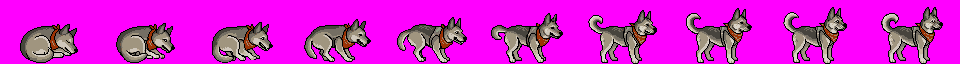
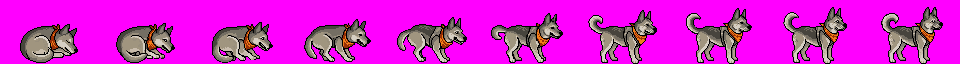
Tarou con arte de beat 'em up: guardia, golpes 1-3, recibir y KO
- 6 animaciones nuevas generadas con el MCP de Pixellab (skeleton-v3 de
  cuadrúpedo, solo el este) sobre su pose de combate con la katana en la
  boca: guardia en bucle, embestida con corte, tajo de cabeza, salto y
  mordisco (derriba), recibir y KO. El combo sigue siendo de 3 golpes.
- Solo en .p16 (TAROU_BU_ANIMS), tiras 14-19 de tarou_p16_bancos
  (TAROU_TIRA_*); juego/personaje.c las usa en la fase y el selector.
  Camina, salta y cae con las tiras del plataformas.
- Las tiras de Tarou se regeneran con la paleta común nueva.

Claude-Session: https://claude.ai/code/session_017EnG7dwTveDLR11rU2k6Mu

diff --git a/scripts/pruebas/prueba_preparar_personaje.py b/scripts/pruebas/prueba_preparar_personaje.py
@@ -115,10 +115,11 @@ class PruebasPrepararPersonaje(unittest.TestCase):
         self.tmp.cleanup()
 
     def test_marcador_cuando_falta_animacion(self):
-        """Sin entrada, salen 14 marcadores con los cuadros por defecto."""
+        """Sin entrada, salen 20 marcadores con los cuadros por defecto (14 del plataformas y
+        6 del beat 'em up)."""
         resultado = pp.preparar("tarou", self.entrada, self.salida)
         pngs = sorted(self.salida.glob("tarou_*.png"))
-        self.assertEqual(len(pngs), 15)          # 14 animaciones + tarou_reposo_estatico.png
+        self.assertEqual(len(pngs), 21)          # 20 animaciones + tarou_reposo_estatico.png
         for png in pngs:
             with Image.open(png) as im:
                 self.assertEqual(im.height, ALTO, png.name)
@@ -130,7 +131,7 @@ class PruebasPrepararPersonaje(unittest.TestCase):
         self.assertEqual(cuadros_del_header(header, "atacar"), 5)
         self.assertEqual(cuadros_del_header(header, "guardia"), 1)     # pose fija: 1 cuadro
         self.assertEqual(resultado["reposo"], 4)
-        self.assertIn("#define TAROU_ANIMACIONES 14", header.read_text(encoding="utf-8"))
+        self.assertIn("#define TAROU_ANIMACIONES 20", header.read_text(encoding="utf-8"))
 
     def test_reposo_estatico_siempre_dos_cuadros(self):
         """La tira estática de reposo (intro y título, personajes.c) tiene SIEMPRE
@@ -163,7 +164,7 @@ class PruebasPrepararPersonaje(unittest.TestCase):
         self.assertEqual(cuadros_de(self.salida / "tarou_reposo_estatico.png"), [0, 3])
         # El reposo del nivel sigue entero (6 cuadros) y el header no cuenta la estática.
         self.assertEqual(cuadros_del_header(self.salida / "tarou_anim.h", "reposo"), 6)
-        self.assertIn("#define TAROU_ANIMACIONES 14", (self.salida / "tarou_anim.h").read_text(encoding="utf-8"))
+        self.assertIn("#define TAROU_ANIMACIONES 20", (self.salida / "tarou_anim.h").read_text(encoding="utf-8"))
 
         reposo_de(2).save(self.entrada / "reposo.png")
         pp.preparar("tarou", self.entrada, self.salida)
@@ -255,7 +256,9 @@ class PruebasPixellabNativo(unittest.TestCase):
         """Cada animación del juego sale del estado de Pixellab que dice el mapeo."""
         esperado = {"reposo": 9, "caminar": 8, "correr": 8, "saltar": 3, "caer": 3, "agachado": 1,
                     "agachado_caminar": 8, "desenvainar": 9, "envainar": 9, "atacar": 1,
-                    "echarse": 6, "dormido": 9, "despertar": 10, "guardia": 1}
+                    "echarse": 6, "dormido": 9, "despertar": 10, "guardia": 1,
+                    # Las del beat 'em up no están en esta exportación falsa: marcadores.
+                    "guardia_bu": 8, "golpe_1": 5, "golpe_2": 5, "golpe_3": 7, "recibir": 5, "ko": 6}
         self.assertEqual(self.resultado, esperado)
         for animacion, n in esperado.items():
             self.assertEqual(cuadros_del_header(self.salida / "tarou_anim.h", animacion), n, animacion)

diff --git a/src/juego/personaje.c b/src/juego/personaje.c
@@ -3,9 +3,9 @@
     (ver personaje.h).
 
     PROPÓSITO
-      Tarou no tiene arte de beat 'em up: usa las tiras del plataformas (reposo para
-      la guardia y al recibir, un dibujo fijo para los tres golpes, caer para el KO),
-      con los mismos ritmos que animaciones.c. Bárbara sí: una tira por animación.
+      Tarou tiene arte de beat 'em up para la guardia, los tres golpes, recibir y el KO
+      (2026-11-04); camina, salta y cae con las tiras del plataformas. Bárbara: una tira
+      por animación.
       Sus golpes reparten los dibujos en la duración del golpe (GOLPE_FRAMES = 14,
       GOLPE_ULTIMO_FRAMES = 20, mundo.h) a 3 frames por dibujo, así el combate no
       cambia de números (decisión del 2026-11-04).
@@ -30,17 +30,19 @@
 
 u8 personaje_elegido;
 
-/* Tarou: las tiras del plataformas (ritmos de animaciones.c). */
+/* Tarou: su arte de beat 'em up (2026-11-04) para la guardia, los golpes, recibir y el KO;
+   caminar, saltar y caer siguen siendo las tiras del plataformas (ritmos de animaciones.c).
+   Los golpes reparten sus dibujos a 3 frames, como los de Bárbara. */
 static const AnimProta ANIMS_TAROU[ANIM_PROTA_CANTIDAD] = {
-    {ESTADO_PARADO, TAROU_REPOSO_CUADROS, 12, 1},     /* ANIM_GUARDIA: el reposo.          */
-    {ESTADO_CAMINANDO, TAROU_CAMINAR_CUADROS, 6, 1},  /* ANIM_CAMINAR                      */
-    {ESTADO_SALTANDO, TAROU_SALTAR_CUADROS, 6, 0},    /* ANIM_SALTAR                       */
-    {ESTADO_CAYENDO, TAROU_CAER_CUADROS, 6, 0},       /* ANIM_CAER                         */
-    {ESTADO_ATACANDO, TAROU_ATACAR_CUADROS, 20, 0},   /* ANIM_GOLPE_1: un dibujo fijo.     */
-    {ESTADO_ATACANDO, TAROU_ATACAR_CUADROS, 20, 0},   /* ANIM_GOLPE_2                      */
-    {ESTADO_ATACANDO, TAROU_ATACAR_CUADROS, 20, 0},   /* ANIM_GOLPE_3                      */
-    {ESTADO_PARADO, TAROU_REPOSO_CUADROS, 12, 1},     /* ANIM_RECIBIR: reposo (parpadea).  */
-    {ESTADO_CAYENDO, TAROU_CAER_CUADROS, 6, 0},       /* ANIM_KO: el dibujo de caer.       */
+    {TAROU_TIRA_GUARDIA_BU, TAROU_GUARDIA_BU_CUADROS, 8, 1},   /* ANIM_GUARDIA              */
+    {ESTADO_CAMINANDO, TAROU_CAMINAR_CUADROS, 6, 1},          /* ANIM_CAMINAR              */
+    {ESTADO_SALTANDO, TAROU_SALTAR_CUADROS, 6, 0},            /* ANIM_SALTAR               */
+    {ESTADO_CAYENDO, TAROU_CAER_CUADROS, 6, 0},               /* ANIM_CAER                 */
+    {TAROU_TIRA_GOLPE_1, TAROU_GOLPE_1_CUADROS, 3, 0},        /* 5 dibujos en 14 frames.   */
+    {TAROU_TIRA_GOLPE_2, TAROU_GOLPE_2_CUADROS, 3, 0},        /* 5 dibujos en 14 frames.   */
+    {TAROU_TIRA_GOLPE_3, TAROU_GOLPE_3_CUADROS, 3, 0},        /* 7 en 20: salto y mordisco. */
+    {TAROU_TIRA_RECIBIR, TAROU_RECIBIR_CUADROS, 3, 0},        /* 5 dibujos en 16 frames.   */
+    {TAROU_TIRA_KO, TAROU_KO_CUADROS, 6, 0},                  /* Cae y se queda tumbado.   */
 };
 
 /* Bárbara: su arte de beat 'em up. */

diff --git a/scripts/preparar_personaje.py b/scripts/preparar_personaje.py
@@ -86,6 +86,8 @@ ANIMACIONES = [
     ("agachado", 2), ("agachado_caminar", 6), ("desenvainar", 4), ("envainar", 4),
     ("atacar", 5), ("echarse", 4), ("dormido", 4), ("despertar", 4),
     ("guardia", 1),     # Tarou quieto con la espada fuera (un dibujo, no un estado)
+    # Beat 'em up (2026-11-04): generadas con el MCP sobre su pose de combate (Fight_Pose).
+    ("guardia_bu", 8), ("golpe_1", 5), ("golpe_2", 5), ("golpe_3", 7), ("recibir", 5), ("ko", 6),
 ]
 
 # De qué parte de la exportación NATIVA de Pixellab sale cada animación del juego
@@ -112,6 +114,14 @@ MAPEOS_PIXELLAB = {
         "dormido": ("Sleep", "south", 0, None, False),
         "despertar": ("Stand_up", "east", 0, 10, False),   # 11 cuadros no caben: 10
         "guardia": ("Fight_Pose", "east", None, None, False),  # pose fija: espada en la boca
+        # Beat 'em up (2026-11-04, skeleton-v3 de cuadrúpedo, solo el este): guardia en
+        # bucle, corte con embestida, tajo de cabeza, salto y mordisco (derriba), recibir y KO.
+        "guardia_bu": ("Fight_Pose/guardia_bu", "east", 0, None, False),
+        "golpe_1": ("Fight_Pose/golpe_1", "east", 0, None, False),
+        "golpe_2": ("Fight_Pose/golpe_2", "east", 0, None, False),
+        "golpe_3": ("Fight_Pose/golpe_3", "east", 0, None, False),
+        "recibir": ("Fight_Pose/recibir", "east", 0, None, False),
+        "ko": ("Fight_Pose/ko", "east", 0, None, False),
     },
     # PROVISIONAL (2026-11-04): solo lo que ya trae la primera exportación; el
     # resto sale como marcador. Los tramos se ajustarán al revisar el arte.

diff --git a/src/juego/protagonista_sprite.c b/src/juego/protagonista_sprite.c
@@ -33,6 +33,8 @@
 #include "juego/dma_lista.h"
 
 extern char tarou_reposo_p16, tarou_caminar_p16, tarou_saltar_p16, tarou_caer_p16, tarou_atacar_p16;
+extern char tarou_guardia_bu_p16, tarou_golpe_1_p16, tarou_golpe_2_p16, tarou_golpe_3_p16;
+extern char tarou_recibir_p16, tarou_ko_p16;
 extern char barbara_guardia_p16, barbara_caminar_p16, barbara_saltar_p16, barbara_caer_p16;
 extern char barbara_golpe_1_p16, barbara_golpe_2_p16, barbara_golpe_3_p16;
 extern char barbara_recibir_p16, barbara_ko_p16;
@@ -65,8 +67,14 @@ static const u8 *tira_de(u8 personaje, u8 tira)
             default:                   return (const u8 *)&barbara_guardia_p16;
         }
     }
-    switch (tira)                                    /* Tarou: su enum Estado.              */
+    switch (tira)                                    /* Tarou: su enum Estado o TAROU_TIRA_*. */
     {
+        case TAROU_TIRA_GUARDIA_BU: return (const u8 *)&tarou_guardia_bu_p16;
+        case TAROU_TIRA_GOLPE_1: return (const u8 *)&tarou_golpe_1_p16;
+        case TAROU_TIRA_GOLPE_2: return (const u8 *)&tarou_golpe_2_p16;
+        case TAROU_TIRA_GOLPE_3: return (const u8 *)&tarou_golpe_3_p16;
+        case TAROU_TIRA_RECIBIR: return (const u8 *)&tarou_recibir_p16;
+        case TAROU_TIRA_KO:      return (const u8 *)&tarou_ko_p16;
         case ESTADO_CAMINANDO: return (const u8 *)&tarou_caminar_p16;
         case ESTADO_SALTANDO:  return (const u8 *)&tarou_saltar_p16;
         case ESTADO_CAYENDO:   return (const u8 *)&tarou_caer_p16;

diff --git a/res/personajes/tarou/tarou_anim.h b/res/personajes/tarou/tarou_anim.h
@@ -14,7 +14,7 @@
 
     VARIABLES (constantes)
       TAROU_<ANIMACION>_CUADROS  1..10  cuadros de 96x64 de esa tira
-      TAROU_ANIMACIONES          14      cuántas animaciones hay
+      TAROU_ANIMACIONES          20      cuántas animaciones hay
 ---------------------------------------------------------------------------------*/
 #ifndef TAROU_ANIM_H
 #define TAROU_ANIM_H
@@ -33,7 +33,13 @@
 #define TAROU_DORMIDO_CUADROS 9
 #define TAROU_DESPERTAR_CUADROS 10
 #define TAROU_GUARDIA_CUADROS 1
+#define TAROU_GUARDIA_BU_CUADROS 8
+#define TAROU_GOLPE_1_CUADROS 5
+#define TAROU_GOLPE_2_CUADROS 5
+#define TAROU_GOLPE_3_CUADROS 7
+#define TAROU_RECIBIR_CUADROS 5
+#define TAROU_KO_CUADROS 6
 
-#define TAROU_ANIMACIONES 14
+#define TAROU_ANIMACIONES 20
 
 #endif /* TAROU_ANIM_H */

diff --git a/src/juego/personaje.h b/src/juego/personaje.h
@@ -68,6 +68,15 @@ typedef enum
     BARBARA_TIRAS
 } BarbaraTira;
 
+/* Las tiras de beat 'em up de Tarou, detrás de las del plataformas (enum Estado, 0..12) y
+   su guardia fija (13) en tarou_p16_bancos (data.asm). */
+#define TAROU_TIRA_GUARDIA_BU 14
+#define TAROU_TIRA_GOLPE_1 15
+#define TAROU_TIRA_GOLPE_2 16
+#define TAROU_TIRA_GOLPE_3 17
+#define TAROU_TIRA_RECIBIR 18
+#define TAROU_TIRA_KO 19
+
 /* Una animación: 4 bytes (potencia de 2: tabla[i] no llama a tcc__mul). */
 typedef struct
 {

diff --git a/tests/tarou_anim.h b/tests/tarou_anim.h
@@ -36,6 +36,13 @@
 #define TAROU_ECHARSE_CUADROS 4
 #define TAROU_DORMIDO_CUADROS 4
 #define TAROU_DESPERTAR_CUADROS 4
+/* Beat 'em up (2026-11-04): los cuadros reales del arte. */
+#define TAROU_GUARDIA_BU_CUADROS 8
+#define TAROU_GOLPE_1_CUADROS 5
+#define TAROU_GOLPE_2_CUADROS 5
+#define TAROU_GOLPE_3_CUADROS 7
+#define TAROU_RECIBIR_CUADROS 5
+#define TAROU_KO_CUADROS 6
 
 #define TAROU_ANIMACIONES 13
 

diff --git a/docs/mapa-de-archivos.md b/docs/mapa-de-archivos.md
@@ -152,7 +152,7 @@ Todas siguen el mismo patrón: `_iniciar()` carga gráficos y hace el fade in;
 | `enemigos/ninja.h` / `ninja.c` | **Lógica pura**: el ninja básico. `Ninja` (16 bytes: x, y de los pies, vivo, mirada, cuadro, reloj, estado, dentro) en 3 ranuras fijas; `ninja_oleada` (nacen zona + 1, alternando izquierda y derecha, fuera de la pantalla, en carriles distintos; por la izquierda nunca por debajo de x = 0), `ninja_actualizar` (mientras viene de fuera anda recto hacia dentro de la pantalla sin pararse, aunque pase sobre el protagonista; ya dentro, mira y camina hacia él a 1 px/frame hasta 40 px; la y, un píxel cada dos frames; anima 8 cuadros), `ninja_limitar_x` (una vez dentro de la pantalla ya no sale), `ninja_vivos`, `ninja_recibir` (vida, aturdido o derribado, empuje, un tajo no pega dos veces), **el ataque** (`ninja_intentar_atacar`: parado cerca del objetivo, descansado y con turno —como mucho 2 a la vez—; el tajo dura 28 cuadros con la caja activa del 12 al 19, cuadros de dibujo 8..14 de la tira de ataque; descansa 50 cuadros después) y `ninja_derrotar_todos`. Los estados ATACANDO, RECIBIR (16 cuadros) y DERRIBADO (36) retroceden al ninja sin IA; sin vida, desaparece al caer. Vida 4 = el combo justo. | `tipos.h`, `mundo.h`, `nivel.h`. Lo usan `ninja_sprite.c`, `pantalla_fase1.c`, `tests/prueba_ninja.c`. | **ninguno** |
 | `enemigos/ninja_sprite.h` / `.c` | Los ninjas en la capa de sprites: un hueco fijo de tiles por ranura (192, 288, 384), paletas 1..3, entidades fijas 2..4 (cuerpo) y 5..7 (sombra). Un ninja por frame, por turnos, sube su cuadro entero en un VBlank (12–15 piezas: ≤ 1,9 KB). Arte de «Ninja 1» (2026-11-04, celda de 96×96): `ninja_dibujo()` da el dibujo y `tira_de` lo traduce a una de las 7 tiras (guardia, caminar, puñetazo, recibir, derribado, levantarse, KO); la misma paleta en 1..3; solo el KO tumbado parpadea (`ninja_parpadea`). | `ninja.h`, `sprites.h`, `subida.h`, `p16.h`, `dma_lista.h`; lee `ninja1_<anim>_p16`, `ninja1_pal`, `ninja1_p16_bancos` y la sombra de la prueba de carga. Lo usa `pantalla_fase1.c`. | OAM, VRAM (por la lista de DMA), CGRAM (paletas 1..3) |
 | `protagonista_sprite.h` / `.c` | Una protagonista en la capa de sprites, como **instancia** `ProtaSprite` (personaje, entidades, búferes de VRAM, paleta, tope de subida): anima con la tabla de su personaje (`personaje.c`), sube el cuadro nuevo al búfer oculto (doble búfer, `subida.c`) y rellena sus dos entidades (cuerpo, dibujado en y − z, y sombra en el suelo, y = 0, media suma de color). `protagonista_escena_cargar` prepara OAM, sombra y matemática de color una vez por pantalla; `sprites_ordenar` lo llama quien dibuja. Celda por personaje (Tarou 96×64, Bárbara 144×112). Sucesor de `tarou_sprite.c`. | `personaje.h`, `mundo.h`, `sprites.h`, `subida.h`, `p16.h`, `dma_lista.h`; lee `tarou_*_p16`, `barbara_*_p16`, sus paletas y la sombra de la prueba de carga. Lo usan `pantalla_fase1.c` y `pantalla_selector.c`. | OAM, VRAM (por la lista de DMA), CGRAM, matemática de color |
-| `personaje.h` / `personaje.c` | **Lógica pura**: quién es la protagonista (`personaje_elegido`, que pone `main.c` al arrancar y cambia el selector) y sus tablas de animación (`AnimProta`, 4 bytes: tira, cuadros, frames, bucle) con las mismas entradas para los dos (guardia, caminar, saltar, caer, golpes 1–3, recibir, KO); `personaje_anim_de(cuerpo)` elige la animación y `personaje_animar` la avanza. Tarou reutiliza las tiras del plataformas; los golpes de Bárbara reparten sus dibujos a 3 frames en la duración del golpe. Celdas y alcance (Tarou 52, Bárbara 72). | `mundo.h`, `animaciones.h`, `tarou_anim.h`, `barbara_anim.h`. Lo usan `protagonista_sprite.c`, `pantalla_selector.c`, `pantalla_fase1.c`, `hud_juego.c`, `tests/prueba_personaje.c`. | **ninguno** |
+| `personaje.h` / `personaje.c` | **Lógica pura**: quién es la protagonista (`personaje_elegido`, que pone `main.c` al arrancar y cambia el selector) y sus tablas de animación (`AnimProta`, 4 bytes: tira, cuadros, frames, bucle) con las mismas entradas para los dos (guardia, caminar, saltar, caer, golpes 1–3, recibir, KO); `personaje_anim_de(cuerpo)` elige la animación y `personaje_animar` la avanza. Tarou usa su arte de beat 'em up para guardia, golpes 1–3, recibir y KO (`TAROU_TIRA_*`, tiras 14–19 de `tarou_p16_bancos`) y las del plataformas para caminar, saltar y caer; los golpes de Bárbara reparten sus dibujos a 3 frames en la duración del golpe. Celdas y alcance (Tarou 52, Bárbara 72). | `mundo.h`, `animaciones.h`, `tarou_anim.h`, `barbara_anim.h`. Lo usan `protagonista_sprite.c`, `pantalla_selector.c`, `pantalla_fase1.c`, `hud_juego.c`, `tests/prueba_personaje.c`. | **ninguno** |
 | `p16.h` / `p16.c` | **Lógica pura**: lee el registro de 8 bytes de un cuadro de una tira `.p16` (desplazamientos de la tabla de piezas, de la espejada y de los tiles; n). | `tipos.h`; lo usan `prueba_carga.c`, `tests/prueba_p16.c`. | ninguno |
 | `dma_copias.asm` | `dma_lista_copias(copias, n, banco)`: pasa n `Copia` de una subida a la lista de DMA en un bucle de ensamblador (sin una llamada desde C por copia). | Declarada en `dma_lista.h`; la usa `prueba_carga.c`. | ninguno (prepara la lista) |
 | `barbara.*`, `cambio_protagonista.*` | **Stubs** (Revisión 2 / Etapa 4): contrato previsto como prototipos comentados y una función `_pendiente()` vacía. | `tipos.h`. | ninguno |

diff --git a/CLAUDE.md b/CLAUDE.md
@@ -73,7 +73,7 @@ Character select (2026-11-04; `src/pantallas/pantalla_selector.c`): Start on the
 make clean; $env:CFLAGS="-DGUION_FASE1"; make; $env:CFLAGS=$null
 .\scripts\capturar_mesen.ps1 -Rom RUTA\guion_fase1.sfc -Duracion 25 -Cada 1 -Espera 3
 ```
-Note: wlalink runs with `-d` (discard unreferenced sections), so the ROM grows when game code starts referencing assets that only a test ROM used before (the 14 `.p16` strips of Tarou: 88 % → 83 % free).
+Note: wlalink runs with `-d` (discard unreferenced sections), so the ROM grows when game code starts referencing assets that only a test ROM used before (the 14 `.p16` strips of Tarou: 88 % → 83 % free). Since 2026-11-04 Tarou also has 6 beat 'em up strips (`guardia_bu`, `golpe_1..3`, `recibir`, `ko`; `.p16` only, `TAROU_BU_ANIMS` in the Makefile) that `juego/personaje.c` uses in the phase; he still walks, jumps and falls with the platformer strips.
 
 Mesen verification without hands (window captures every N seconds, optionally starting at `-Desde`; pad driven by a time-based key script; see `docs/mesen-y-depuracion.md` §5):
 ```

diff --git a/docs/pixellab-fase1.md b/docs/pixellab-fase1.md
@@ -121,6 +121,11 @@ de color afecta (media suma en combate: lo que esté ahí sale translúcido):
 
 ### 1.1 Tarou (96×64, altura 57) ♻
 
+**Beat 'em up (2026-11-04):** guardia (8), golpe 1 (embestida con corte, 5), golpe 2 (tajo
+de cabeza, 5), golpe 3 (salto y mordisco que derriba, 7), recibir (5) y KO (6), generadas
+con el MCP (skeleton-v3 de cuadrúpedo, solo el este) sobre el estado `Fight Pose`. El
+combo sigue siendo de 3 golpes. Camina, salta y cae con las tiras del plataformas.
+
 Tiene ya 13 animaciones y el guardia (el arte de `res/descargas/graficos/pixellab/tarou/`).
 Para la fase 1 faltan las de **combate**. Todo mira al este y se exporta en el
 formato nativo de Pixellab (`MAPEOS_PIXELLAB`). Tarou lleva la katana **en la
